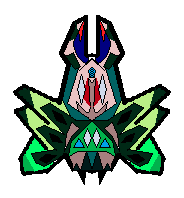
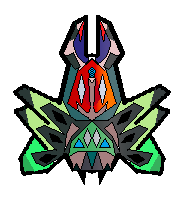
Updated some sprites

diff --git a/client/credits/index.html b/client/credits/index.html
@@ -31,7 +31,7 @@
 
         <h2>Art</h2>
         <ul>
-            <li>Spheal, GingyH2O, Uzair, Zer0, and <a href="https://github.com/tardisfromtornspace" target="_blank">Tardis</a> - Some ship sprites</li>
+            <li>Spheal, GingyH2O, Uzair, Zer0, Herobrine Supreme and <a href="https://github.com/tardisfromtornspace" target="_blank">Tardis</a> - Some ship sprites</li>
             <li>Starwolf - Some missile sprites</li>
             <li><a href="https://millionthvector.blogspot.com" target="_blank">MillionthVector</a> - Human / Alien base sprites</li>
             <li><a href="https://github.com/tardisfromtornspace" target="_blank">Tardis</a> and <a href="https://github.com/DamienVesper" target="_blank">DamienVesper</a> - Green base sprite</li>
